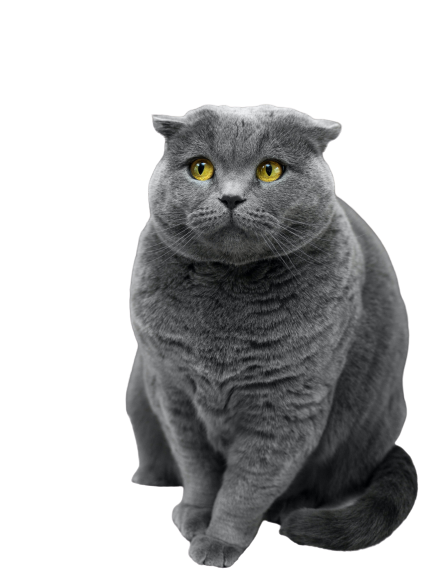
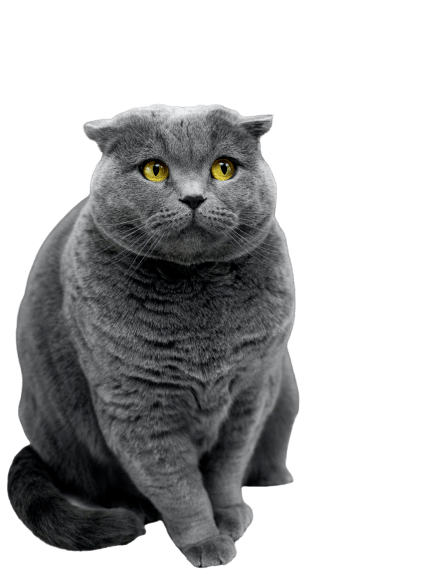
Add card component

diff --git a/src/App.js b/src/App.js
@@ -1,9 +1,11 @@
 import Header from './components/Header';
+import Card from './components/Card';
 import style from './styles/App.module.css';
 
 const App = () => (
-  <div className={`${style.App} d-flex justify-content-center`}>
+  <div className={`${style.App} d-flex flex-column align-items-center`}>
     <Header />
+    <Card />
   </div>
 );
 

diff --git a/src/components/Card.js b/src/components/Card.js
@@ -1,0 +1,13 @@
+import React from 'react';
+import cat from '../images/cat.png';
+import style from '../styles/Card.module.css';
+
+const Card = () => (
+  <div>
+    <div className={style.card_item}>
+      <img src={cat} alt="cat" className={style.cat_image} />
+    </div>
+  </div>
+);
+
+export default Card;

diff --git a/src/styles/Card.module.css b/src/styles/Card.module.css
@@ -1,0 +1,13 @@
+.card_item {
+  width: 320px;
+  height: 400px;
+  display: flex;
+  align-items: flex-end;
+  background-color: white;
+}
+
+.cat_image {
+  width: 200px;
+  height: 250px;
+  object-fit: cover;
+}
